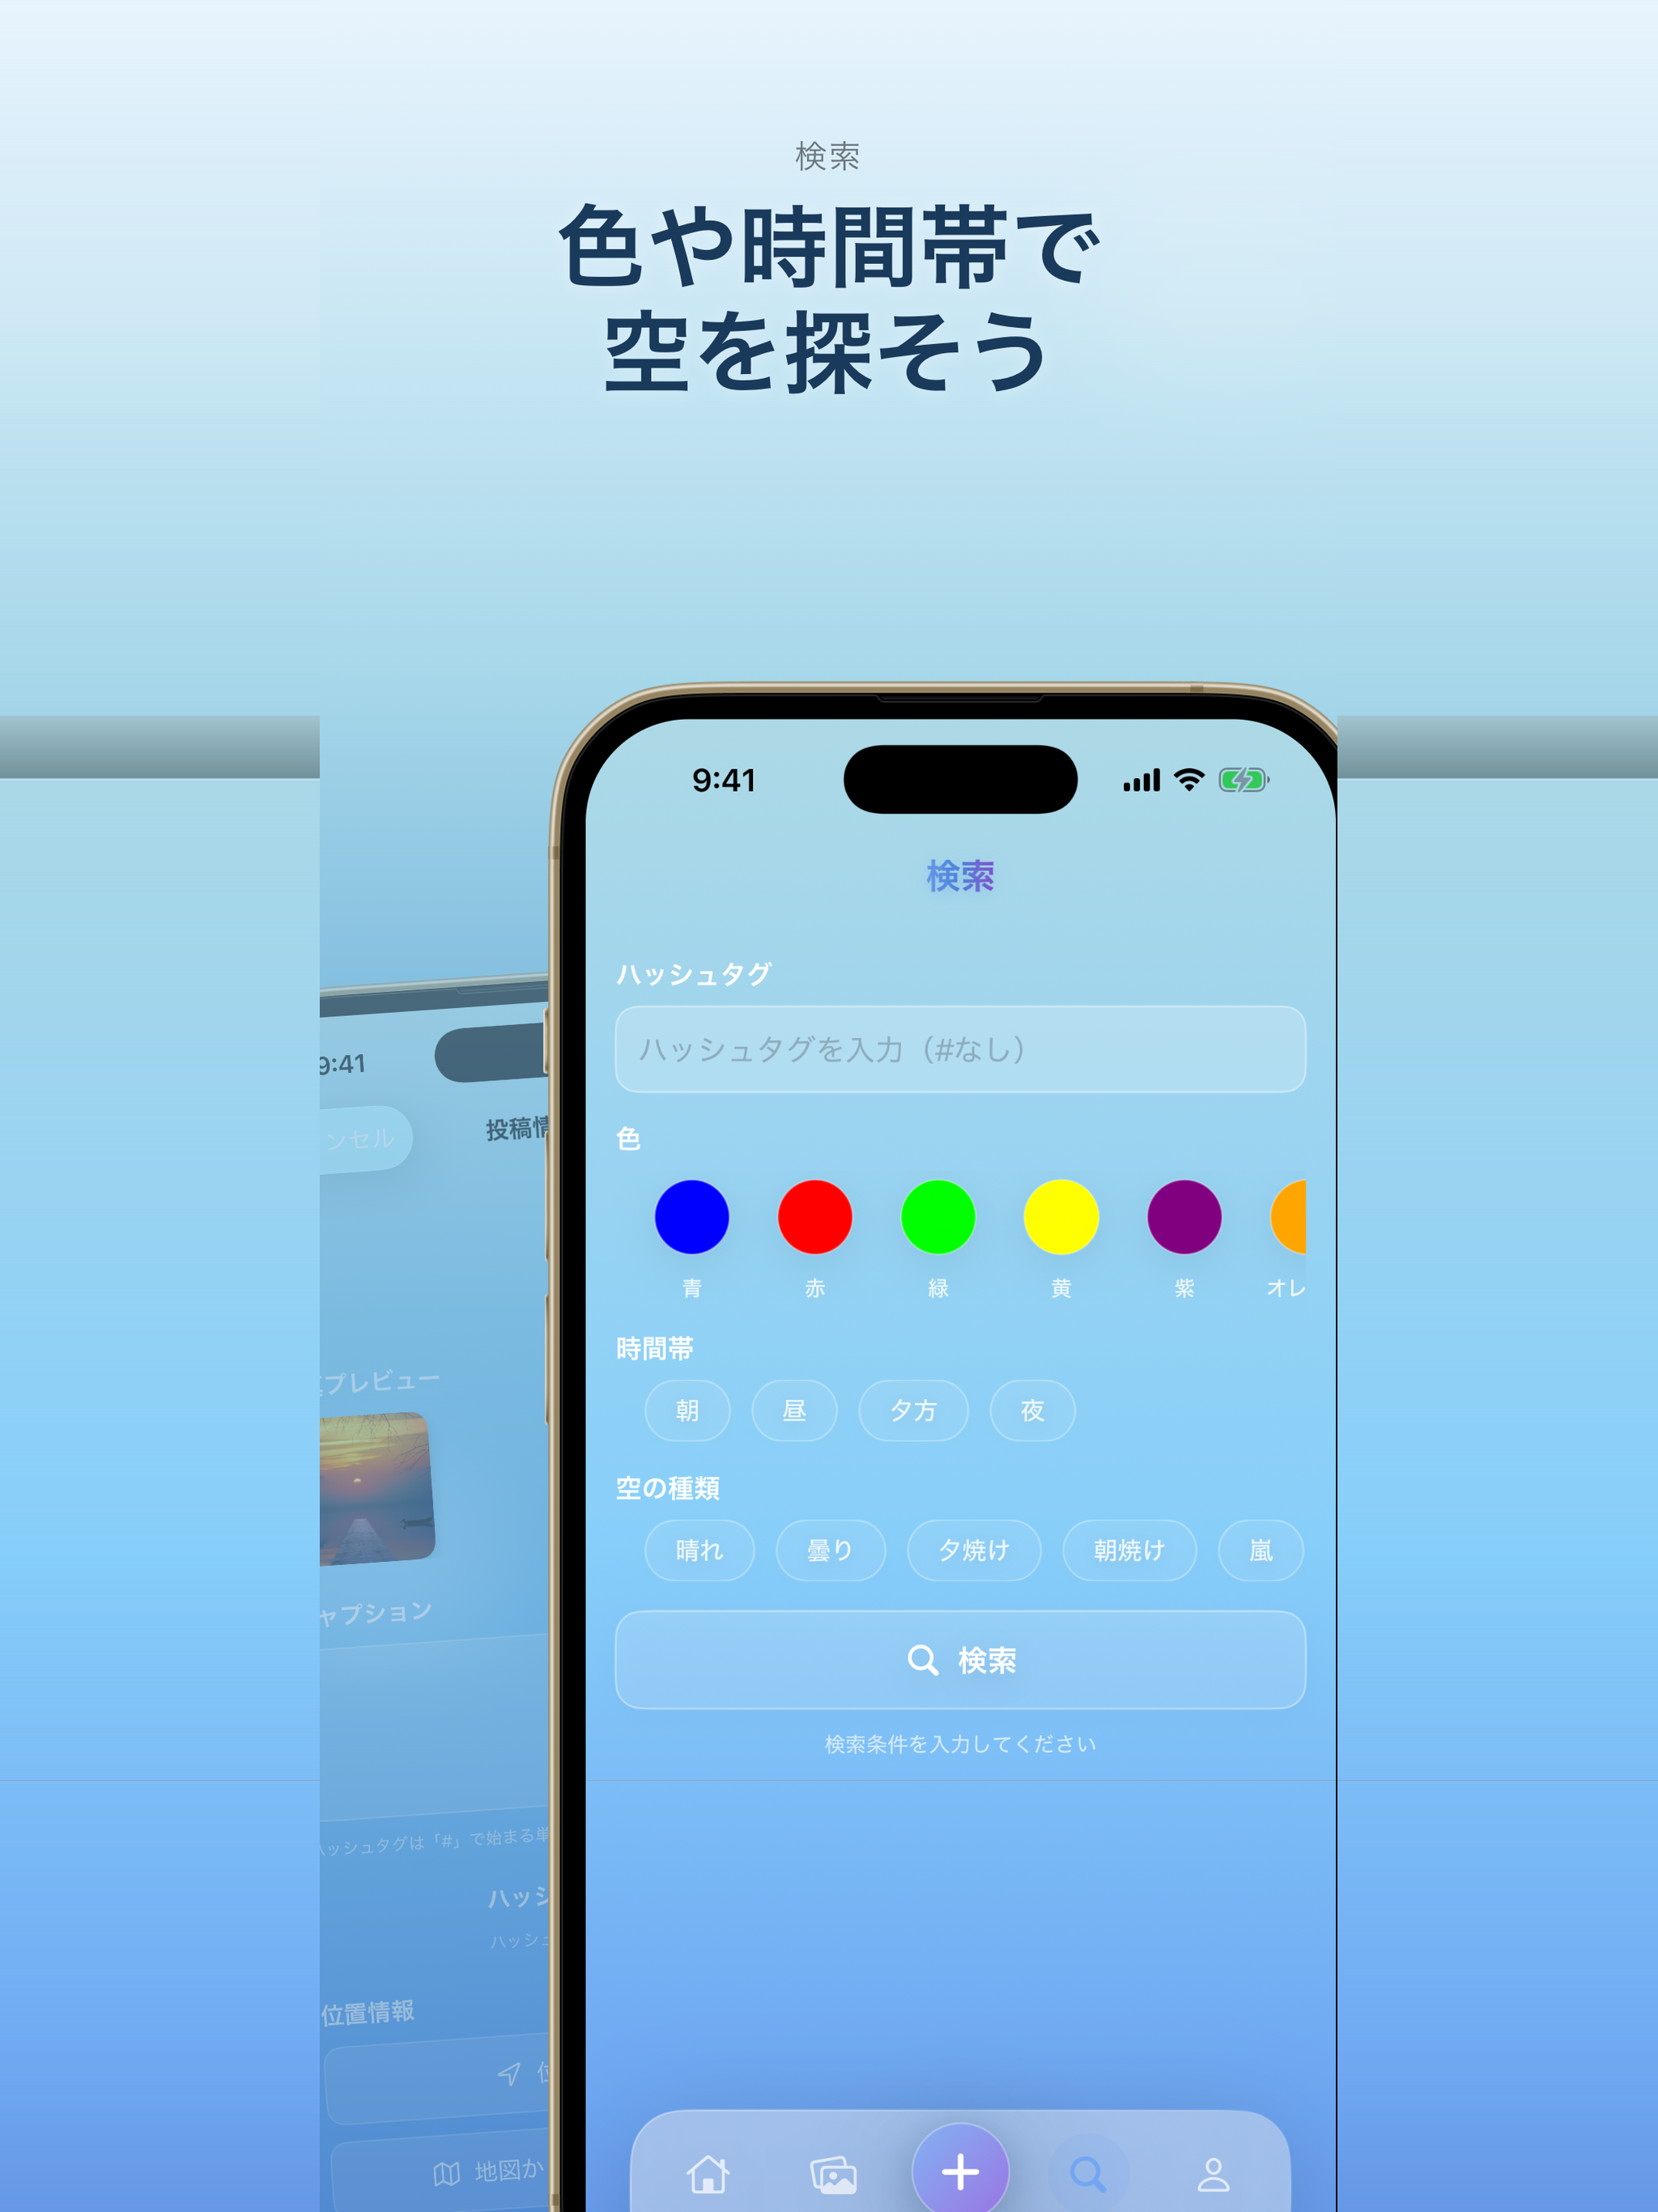
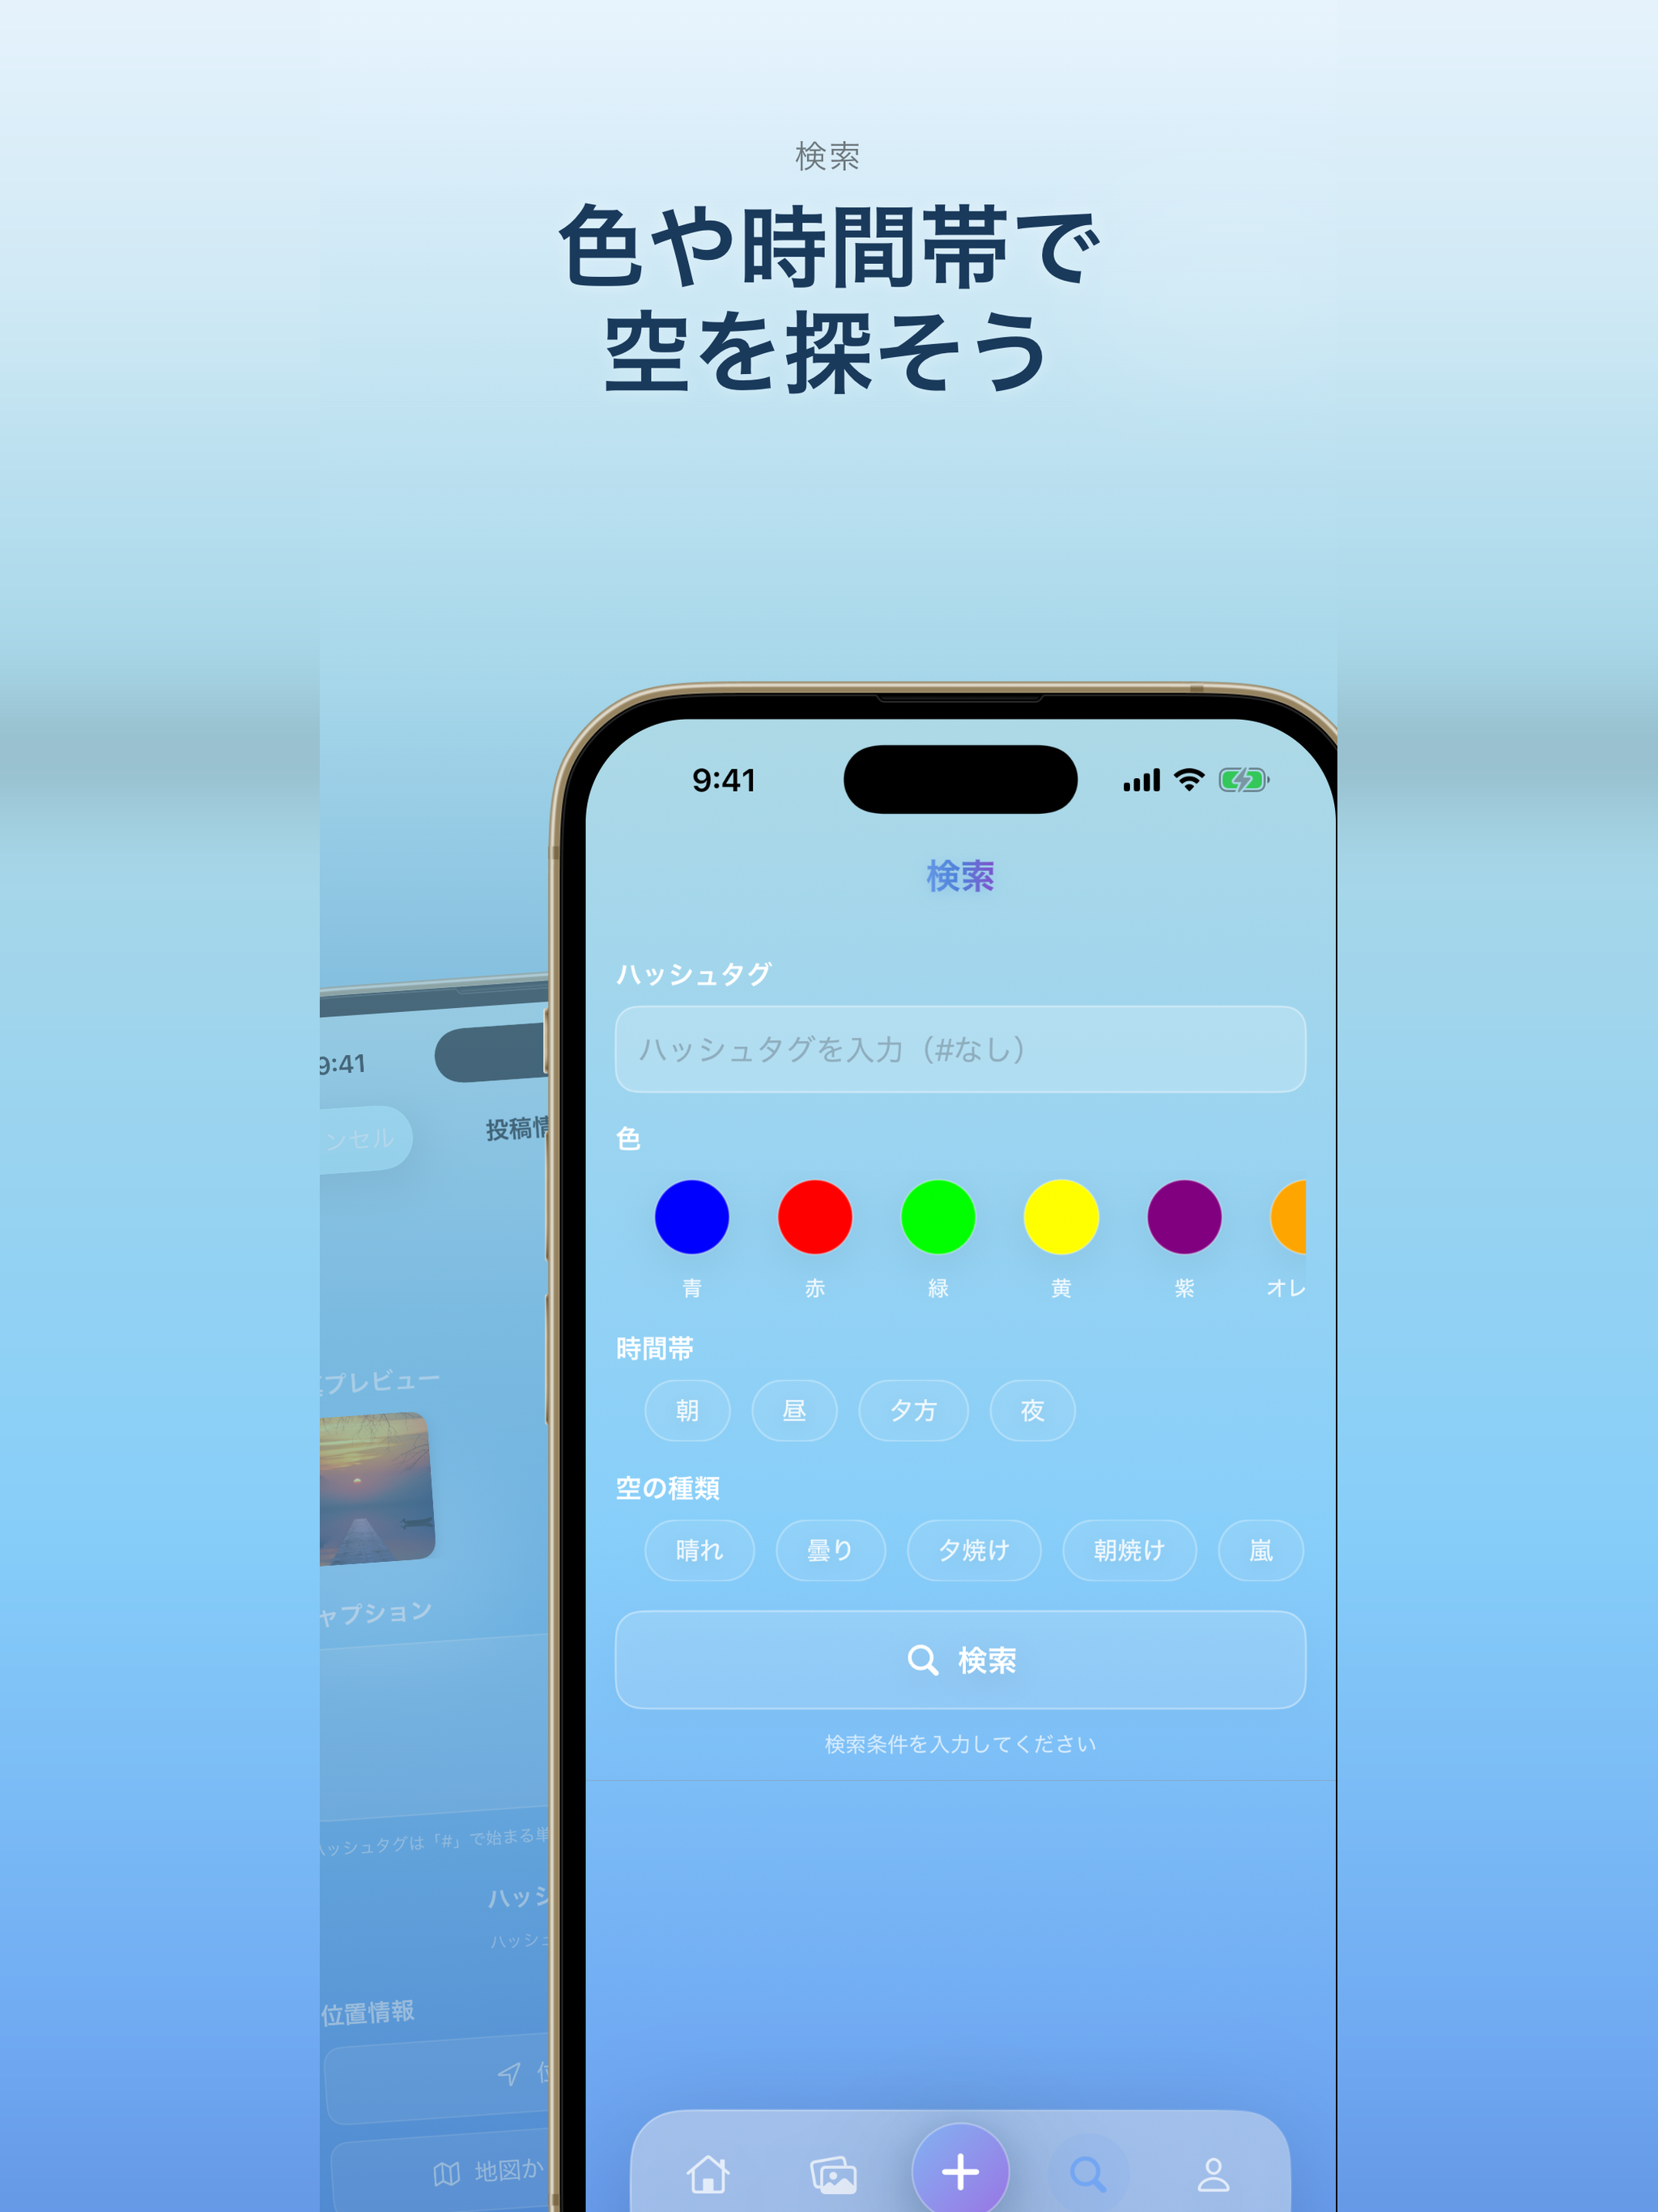
修正: iPad 08-search の余白グラデの段差（横の継ぎ目）を解消
レターボックスの左右余白を補間済み列から作る際、補間セグメント境界の折れが
横方向の段として見えていた。blue 経路(08-search のみ)に縦ガウシアン平滑化(σ=60)を
追加し、余白をシームレスな縦グラデにした。寸法 2048×2732 / RGB / アルファ無は維持。
クリーンな3枚(filter/edittools/style)はエッジ列そのままで継ぎ目ゼロのため不変。

Changed region(s): [[0.8125, 0.3111, 1.0, 0.3734], [0.0, 0.3111, 0.1875, 0.3734]]

diff --git a/screenshots/make-ipad-letterbox.py b/screenshots/make-ipad-letterbox.py
@@ -31,15 +31,28 @@ SPECS = [
 OUT_DIR = "appstore-submit-ipad"
 
 
+def _gauss1d(x: np.ndarray, sigma: float) -> np.ndarray:
+    """1次元ガウシアン平滑化（端は edge パディング）。補間セグメント境界の折れを均す。"""
+    r = int(sigma * 3)
+    k = np.exp(-(np.arange(-r, r + 1) ** 2) / (2 * sigma * sigma))
+    k /= k.sum()
+    return np.convolve(np.pad(x, (r, r), mode="edge"), k, mode="valid")
+
+
 def gradient_column(scaled: Image.Image, sx: int, blue: bool) -> Image.Image:
     """スケール済みパネルの x=sx 列を取り出し、必要なら汚染行を補間で除去して返す。"""
     col = np.asarray(scaled)[:, sx, :].astype(float)  # (TH, 3)
     if blue:
+        # 08-search のみ: 右端純グラデ列に主電話のベゼル角が数行混入するため、
+        # 青くない/暗い行を線形補間で除去 → さらに縦ガウシアンで補間境界の折れ
+        # （横方向の段＝継ぎ目に見える）を均してシームレスにする。
         contam = (col[:, 0] >= col[:, 2] - 8) | (col.max(axis=1) < 70)
         idx = np.arange(len(col))
         good = ~contam
         for c in range(3):
             col[:, c] = np.interp(idx, idx[good], col[good, c])
+        for c in range(3):
+            col[:, c] = _gauss1d(col[:, c], 60)
     return Image.fromarray(np.clip(col, 0, 255).astype("uint8").reshape(len(col), 1, 3))
 
 